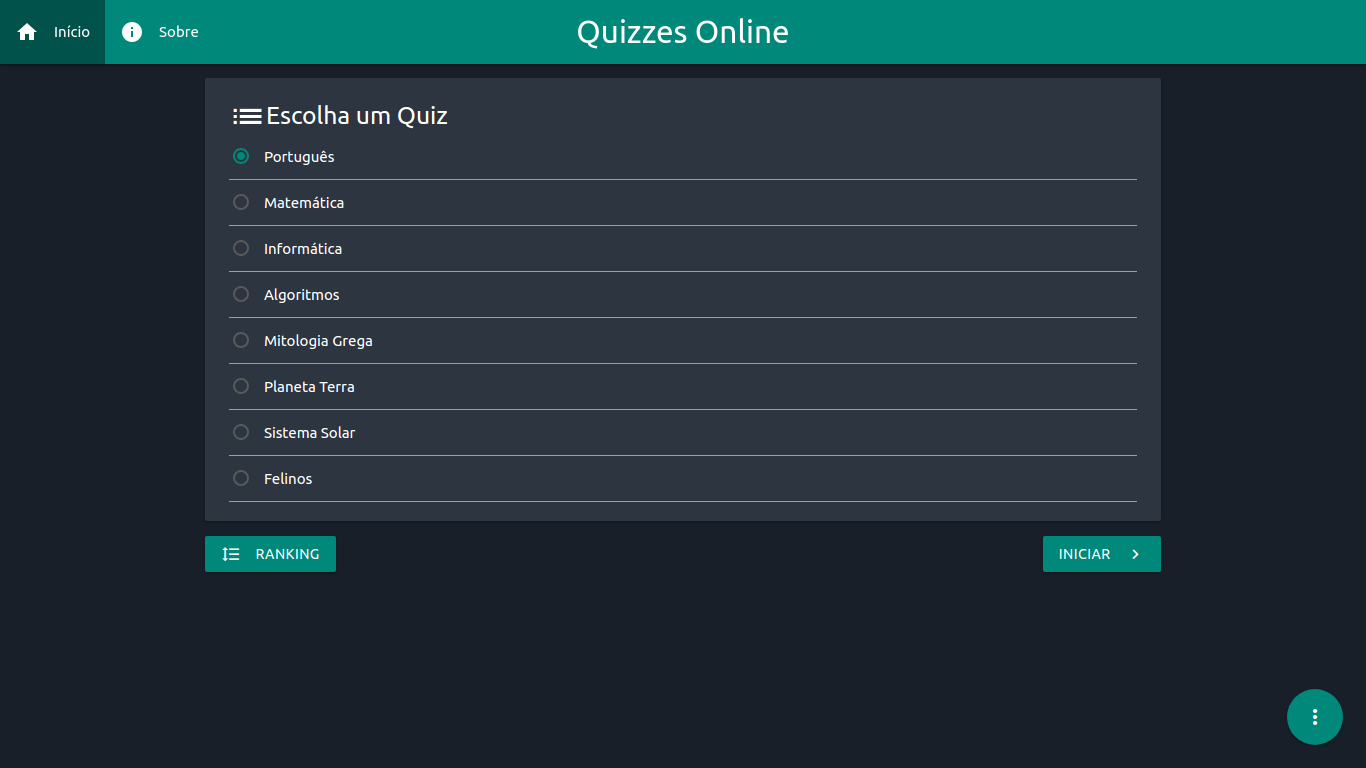
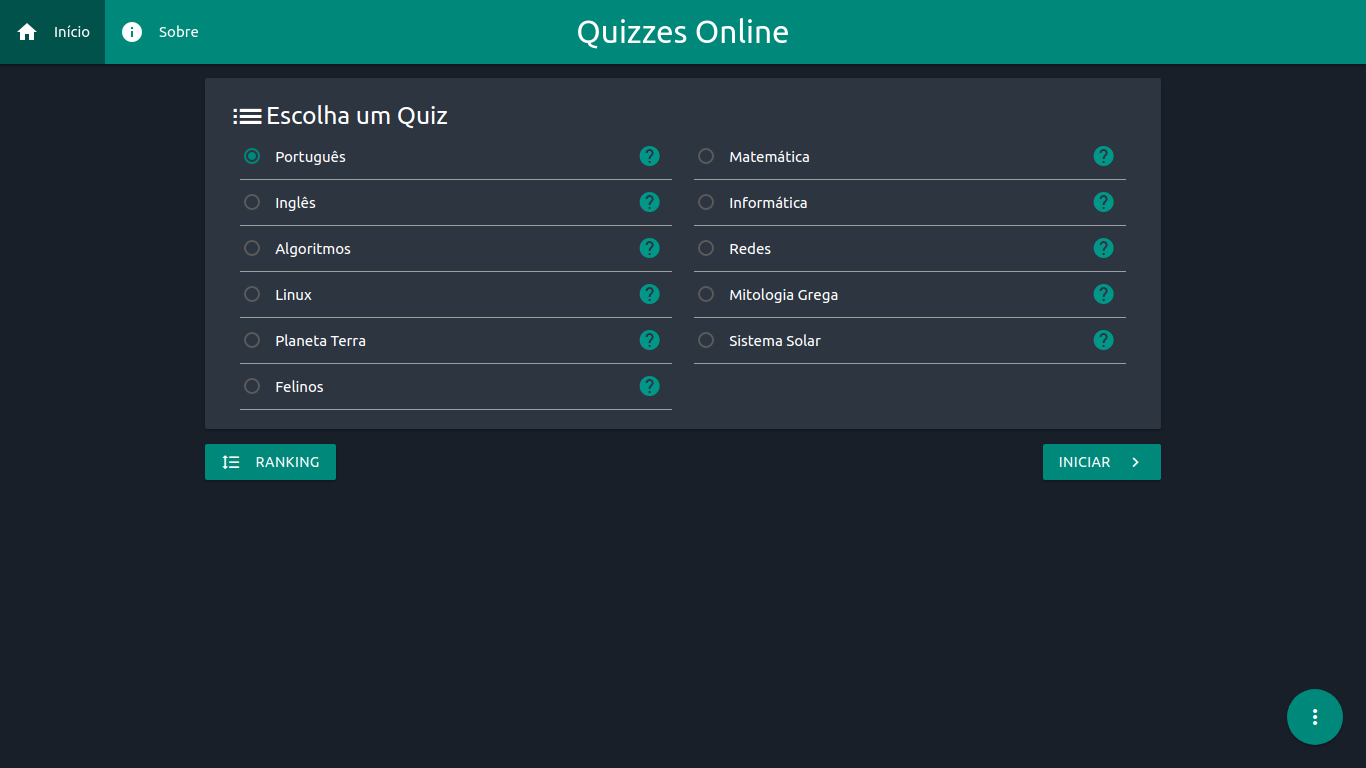
information button added

diff --git a/index.html b/index.html
@@ -1,1 +1,1 @@
-<!DOCTYPE html><html lang="pt-br"><head><meta charset="UTF-8"><meta name="viewport" content="width=device-width, initial-scale=1.0, minimum-scale=1.0, maximum-scale=1.0, user-scalable=no, shrink-to-fit=no"><meta http-equiv="X-UA-Compatible" content="ie=edge"><link rel="stylesheet" href="src/css/materialize.min.css"><link rel="stylesheet" href="src/css/material-icons.css"><link rel="stylesheet" href="src/css/index.css"><link rel="icon" href="images/logo64x64.png"><link rel="manifest" href="manifest.json"><meta name="title" content="Quizzes Online"><meta name="description" content="Quizzes Online com várias modalidades de perguntas. Quantas você consegue acertar?"><meta name="keywords" content="quiz,quizzes,quizes,perguntas,Online,lucas naja,javascript,mundo,quizzes,animais"><meta name="author" content="Lucas Bittencourt"><meta name="mobile-web-app-capable" content="yes"><meta name="apple-mobile-web-app-capable" content="yes"><meta name="application-name" content="Quizzes Online"><meta name="apple-mobile-web-app-title" content="Quizzes Online"><meta name="theme-color" content="#00897b"><meta name="msapplication-navbutton-color" content="#00897b"><meta name="apple-mobile-web-app-status-bar-style" content="black-translucent"><meta name="msapplication-starturl" content="https://quizzesonline.now.sh"><meta property="og:type" content="website"><meta property="og:url" content="https://quizzesonline.now.sh"><meta property="og:title" content="Quizzes Online"><meta property="og:description" content="Quizzes Online com várias modalidades de perguntas. Quantas você consegue acertar?"><meta property="og:image" content="https://quizzesonline.now.sh/images/dark_theme.png"><meta property="og:image:alt" content="Quizzes Online com várias modalidades de perguntas. Quantas você consegue acertar?"><meta name="twitter:card" content="summary_large_image"><meta name="twitter:url" content="https://quizzesonline.now.sh"><meta name="twitter:title" content="Quizzes Online"><meta name="twitter:description" content="Quizzes Online com várias modalidades de perguntas. Quantas você consegue acertar?"><meta name="twitter:image" content="https://quizzesonline.now.sh/images/dark_theme.png"><meta name="twitter:image:alt" content="Quizzes Online com várias modalidades de perguntas. Quantas você consegue acertar?"><meta name="twitter:creator" content="@lucasnaja0"><meta name="twitter:site" content="@lucasnaja0"><meta name="robots" content="index,follow,noodp"><meta name="robots" content="noydir"><meta name="slurp" content="noydir"><title>Quizzes Online - Início</title></head><body data-theme="light"><noscript><link rel="stylesheet" href="src/css/error.css"><p>Ative o JavaScript.</p></noscript><div id="preloader"><div class="preloader-wrapper big active"><div class="spinner-layer"><div class="circle-clipper left"><div class="circle"></div></div><div class="gap-patch"><div class="circle"></div></div><div class="circle-clipper right"><div class="circle"></div></div></div></div></div><div class="navbar-fixed"><nav id="nav" class="hide"><div class="nav-wrapper"><a id="logo" class="brand-logo center hide-on-med-and-down">Quizzes Online</a><a class="brand-logo left hide-on-large-only">Quizzes Online</a><a id="navMenu" data-target="slide-out" class="sidenav-trigger right c-pt"><i class="material-icons">menu</i></a><ul id="nav-mobile" class="hide-on-med-and-down"><li><a title="Início" href="./" class="bgcoloractive">Início<i class="material-icons left">home</i></a></li><li><a title="Sobre" href="sobre/">Sobre<i class="material-icons left">info</i></a></li></ul></div></nav></div><ul id="slide-out" class="sidenav"><li><div class="user-view"><img class="circle" style="border-radius:0" src="images/logo128x128.png"><span class="name">Quizzes Online</span><span class="email">Projeto Etec - Lucas Bittencourt</span></div></li><div class="divider bgcolor"></div><li class="active"><a href="./" class="waves-effect text"><i class="material-icons left teal-text">home</i>Início</a></li><li><a href="sobre/" class="waves-effect text"><i class="material-icons left blue-text">info</i>Sobre</a></li><li><a href="https://github.com/LucasNaja/quizzes-online" target="_target" rel="noopener noreferrer nofollow" class="waves-effect text"><i class="material-icons left text">code</i>Código-Fonte</a></li><div class="divider bgcolor" style="margin-top:0"></div><li><ul class="collapsible"><li><div class="collapsible-header"><i class="material-icons left grey-text">settings</i>Opções<i class="material-icons" style="position:absolute;right: 0">arrow_drop_down</i></div><div class="collapsible-body background-2"><ul><div class="divider bgcolor" style="margin-top:0"></div><li><a class="waves-effect modal-trigger text" data-target="modal7"><i class="material-icons left red-text">clear</i>Limpar Ranking</a></li><li><a class="waves-effect modal-trigger text" data-target="modal8"><i class="material-icons left text">invert_colors</i>Trocar Tema</a></li></ul></div></li></ul></li><div class="divider bgcolor" style="margin-top:0"></div></ul><section id="container" class="container hide" style="margin-bottom:14px"><section id="selectQuiz" class="card-panel" style="margin-top:14px"><h5 style="margin:-15px 0 0 0" class="corTexto"><i class="material-icons" style="top:11px;font-size:37px">list</i>Escolha um Quiz</h5><div id="options" class="row" style="margin-bottom:0"></div></section><section id="quiz" class="card-panel hoverable hide" style="margin-top:14px"></section><button id="rank" title="Ranking Local" class="btn waves-effect modal-trigger waves-light" data-target="modal4"><i class="material-icons left">format_line_spacing</i>Ranking</button><button id="start" title="Iniciar Quiz" class="btn waves-effect waves-light right" onclick="start()">Iniciar<i class="material-icons right">chevron_right</i></button><button id="giveUp" title="Desistir do Quiz" class="btn waves-effect waves-light modal-trigger red hide" data-target="modal1"><i class="material-icons left">sentiment_very_dissatisfied</i>Desistir</button><button id="next" title="Próxima Pergunta" class="btn waves-effect waves-light right hide" onclick="next()">Próximo<i class="material-icons right">chevron_right</i></button><button id="finish" title="Voltar aos Quizzes" class="btn waves-effect waves-light hide" onclick="stop()"><i class="material-icons left">chevron_left</i>Voltar</button><button id="save" title="Salvar Resultado" class="btn waves-effect waves-light modal-trigger green hide" data-target="modal5">Salvar<i class="material-icons left">save</i></button><button id="showAnswers" title="Ver Respostas" class="btn waves-effect waves-light right modal-trigger hide" data-target="modal3">Respostas<i class="material-icons right">question_answer</i></button></section><ul class="pagination center hide" id="pagination"> </ul><section id="actionButton" class="fixed-action-btn"><a id="menu" class="btn-floating btn-large waves-effect waves-light"><i class="material-icons">more_vert</i></a><ul><li><a class="btn-floating modal-trigger waves-effect waves-light red" data-target="modal7"><i class="material-icons">clear</i></a></li><li><a class="btn-floating waves-effect waves-light" href="https://github.com/LucasNaja/quizzes-online" target="_target" rel="noopener noreferrer nofollow"><i class="material-icons">code</i></a></li><li><a class="btn-floating modal-trigger waves-effect waves-light" data-target="modal8"><i class="material-icons">invert_colors</i></a></li></ul></section><section id="modal1" class="modal"><div class="modal-content"><h4><i class="material-icons red-text" style="top:1px">sentiment_very_dissatisfied</i> Desistir</h4><p>Você tem certeza que deseja desistir?</p></div><div class="divider"></div><div class="modal-footer"><button title="Cancelar" class="btn modal-close waves-effect waves-light"><i class="material-icons left">arrow_back</i>Cancelar</button>&nbsp;<button title="Desistir do Quiz" class="btn modal-close waves-effect waves-light red" onclick="stop()">Desistir<i class="material-icons right">sentiment_very_dissatisfied</i></button></div></section><section id="modal2" class="modal"><div class="modal-content"><h4><i class="material-icons" id="star">star</i> Quiz finalizado</h4><p>Você acertou <span id="points"></span></p></div><div class="divider"></div><div class="modal-footer"><button title="Fechar" class="btn modal-close waves-effect waves-light"><i class="material-icons left">close</i>Fechar</button></div></section><section id="modal3" class="modal modal-fixed-footer"><div id="answers" class="modal-content"> </div><div class="divider"></div><div class="modal-footer"><button title="Fechar" class="btn modal-close waves-effect waves-light"><i class="material-icons left">close</i>Fechar</button></div></section><section id="modal4" class="modal modal-fixed-footer"><div class="modal-content"><ul id="tabs" class="tabs z-depth-1"> </ul><div id="tabItems"></div></div><div class="modal-footer"><button title="Fechar" class="modal-close waves-effect waves-light btn"><i class="material-icons left">close</i>Fechar</button></div></section><section id="modal5" class="modal"><div class="modal-content"><h4><i class="material-icons" style="top:1px">save</i> Salvar</h4><p>Quiz: <span id="quizSave"></span></p><p>Acertos: <span id="hitsSave"></span></p><p>Tempo: <span id="timeSave"></span></p><div class="input-field" style="margin:25px 0 0 0"><input placeholder="Nome" id="name" type="text" minlength=3 class="validate"><label for="name">Digite seu nome abaixo</label></div></div><div class="divider"></div><div class="modal-footer"><button title="Cancelar" class="modal-close waves-effect waves-light btn"><i class="material-icons left">arrow_back</i>Cancelar</button>&nbsp;<button id="btnSave" title="Salvar resultado" class="waves-effect waves-light btn green" onclick="save();renderSavedItems()">Salvar<i class="material-icons right">save</i></button></div></section><section id="modal6" class="modal"><div class="modal-content"><h4><i class="material-icons red-text" style="top:1px">sentiment_dissatisfied</i> Você perdeu!</h4><p>Você chegou no limite de tempo, tente novamente!</p></div><div class="divider"></div><div class="modal-footer"><button title="Fechar" class="modal-close waves-effect waves-light btn">Fechar<i class="material-icons left">close</i></button></div></section><section id="modal7" class="modal"><div class="modal-content"><h4><i class="material-icons left red-text" style="top:6px;margin:0 5px 0 0">clear</i>Limpar Ranking</h4><p>Você tem certeza que deseja limpar o Ranking?</p></div><div class="divider"></div><div class="modal-footer"><button title="Cancelar" class="modal-close waves-effect waves-light btn"><i class="material-icons left">arrow_back</i>Cancelar</button>&nbsp;<button title="Limpar Ranking" class="modal-close waves-effect waves-light btn red" onclick="clearSavedItems()">Limpar <i class="material-icons right">clear</i></button></div></section><section id="modal8" class="modal"><div class="modal-content"><h4><i class="material-icons left" style="top:6px;margin:0 5px 0 0">invert_colors</i>Mudar Tema</h4><div class="switch"><label><input id="darktheme" type="checkbox" onchange="if (this.checked) darkTheme(); else lightTheme()"><span class="lever"></span>Tema Dark</label></div></div><div class="divider"></div><div class="modal-footer"><button title="Fechar" class="modal-close waves-effect waves-light btn"><i class="material-icons left">close</i>Fechar</button></div></section><script src="src/js/materialize.min.js"></script><script src="src/js/questions.js"></script><script src="src/js/index.js"></script><script>if ('serviceWorker' in navigator){navigator.serviceWorker.register('/service-worker.js')}</script></body></html>
+<!DOCTYPE html><html lang="pt-br"><head><meta charset="UTF-8"><meta name="viewport" content="width=device-width, initial-scale=1.0, minimum-scale=1.0, maximum-scale=1.0, user-scalable=no, shrink-to-fit=no"><meta http-equiv="X-UA-Compatible" content="ie=edge"><link rel="stylesheet" href="src/css/materialize.min.css"><link rel="stylesheet" href="src/css/material-icons.css"><link rel="stylesheet" href="src/css/index.css"><link rel="icon" href="images/logo64x64.png"><link rel="manifest" href="manifest.json"><meta name="title" content="Quizzes Online"><meta name="description" content="Quizzes Online com várias modalidades de perguntas. Quantas você consegue acertar?"><meta name="keywords" content="quiz,quizzes,quizes,perguntas,Online,lucas naja,javascript,mundo,quizzes,animais"><meta name="author" content="Lucas Bittencourt"><meta name="mobile-web-app-capable" content="yes"><meta name="apple-mobile-web-app-capable" content="yes"><meta name="application-name" content="Quizzes Online"><meta name="apple-mobile-web-app-title" content="Quizzes Online"><meta name="theme-color" content="#00897b"><meta name="msapplication-navbutton-color" content="#00897b"><meta name="apple-mobile-web-app-status-bar-style" content="black-translucent"><meta name="msapplication-starturl" content="https://quizzesonline.now.sh"><meta property="og:type" content="website"><meta property="og:url" content="https://quizzesonline.now.sh"><meta property="og:title" content="Quizzes Online"><meta property="og:description" content="Quizzes Online com várias modalidades de perguntas. Quantas você consegue acertar?"><meta property="og:image" content="https://quizzesonline.now.sh/images/dark_theme.png"><meta property="og:image:alt" content="Quizzes Online com várias modalidades de perguntas. Quantas você consegue acertar?"><meta name="twitter:card" content="summary_large_image"><meta name="twitter:url" content="https://quizzesonline.now.sh"><meta name="twitter:title" content="Quizzes Online"><meta name="twitter:description" content="Quizzes Online com várias modalidades de perguntas. Quantas você consegue acertar?"><meta name="twitter:image" content="https://quizzesonline.now.sh/images/dark_theme.png"><meta name="twitter:image:alt" content="Quizzes Online com várias modalidades de perguntas. Quantas você consegue acertar?"><meta name="twitter:creator" content="@lucasnaja0"><meta name="twitter:site" content="@lucasnaja0"><meta name="robots" content="index,follow,noodp"><meta name="robots" content="noydir"><meta name="slurp" content="noydir"><title>Quizzes Online - Início</title></head><body data-theme="light"><noscript><link rel="stylesheet" href="src/css/error.css"><p>Ative o JavaScript.</p></noscript><div id="preloader"><div class="preloader-wrapper big active"><div class="spinner-layer"><div class="circle-clipper left"><div class="circle"></div></div><div class="gap-patch"><div class="circle"></div></div><div class="circle-clipper right"><div class="circle"></div></div></div></div></div><div class="navbar-fixed"><nav id="nav" class="hide"><div class="nav-wrapper"><a id="logo" class="brand-logo center hide-on-med-and-down">Quizzes Online</a><a class="brand-logo left hide-on-large-only">Quizzes Online</a><a id="navMenu" data-target="slide-out" class="sidenav-trigger right c-pt"><i class="material-icons">menu</i></a><ul id="nav-mobile" class="hide-on-med-and-down"><li><a title="Início" href="./" class="bgcoloractive">Início<i class="material-icons left">home</i></a></li><li><a title="Sobre" href="sobre/">Sobre<i class="material-icons left">info</i></a></li></ul></div></nav></div><ul id="slide-out" class="sidenav"><li><div class="user-view"><img class="circle" style="border-radius:0" src="images/logo128x128.png"><span class="name">Quizzes Online</span><span class="email">Projeto Etec - Lucas Bittencourt</span></div></li><div class="divider bgcolor"></div><li class="active"><a href="./" class="waves-effect text"><i class="material-icons left teal-text">home</i>Início</a></li><li><a href="sobre/" class="waves-effect text"><i class="material-icons left blue-text">info</i>Sobre</a></li><li><a href="https://github.com/LucasNaja/quizzes-online" target="_target" rel="noopener noreferrer nofollow" class="waves-effect text"><i class="material-icons left text">code</i>Código-Fonte</a></li><div class="divider bgcolor" style="margin-top:0"></div><li><ul class="collapsible"><li><div class="collapsible-header"><i class="material-icons left grey-text">settings</i>Opções<i class="material-icons" style="position:absolute;right: 0">arrow_drop_down</i></div><div class="collapsible-body background-2"><ul><div class="divider bgcolor" style="margin-top:0"></div><li><a class="waves-effect modal-trigger text" data-target="modal7"><i class="material-icons left red-text">clear</i>Limpar Ranking</a></li><li><a class="waves-effect modal-trigger text" data-target="modal8"><i class="material-icons left text">invert_colors</i>Trocar Tema</a></li></ul></div></li></ul></li><div class="divider bgcolor" style="margin-top:0"></div></ul><section id="container" class="container hide" style="margin-bottom:14px"><section id="selectQuiz" class="card-panel" style="margin-top:14px"><h5 style="margin:-15px 0 0 0" class="corTexto"><i class="material-icons" style="top:11px;font-size:37px">list</i>Escolha um Quiz</h5><div id="options" class="row" style="margin-bottom:0"></div></section><section id="quiz" class="card-panel hoverable hide" style="margin-top:14px"></section><button id="rank" title="Ranking Local" class="btn waves-effect modal-trigger waves-light" data-target="modal4"><i class="material-icons left">format_line_spacing</i>Ranking</button><button id="start" title="Iniciar Quiz" class="btn waves-effect waves-light right" onclick="start()">Iniciar<i class="material-icons right">chevron_right</i></button><button id="giveUp" title="Desistir do Quiz" class="btn waves-effect waves-light modal-trigger red hide" data-target="modal1"><i class="material-icons left">sentiment_very_dissatisfied</i>Desistir</button><button id="next" title="Próxima Pergunta" class="btn waves-effect waves-light right hide" onclick="next()">Próximo<i class="material-icons right">chevron_right</i></button><button id="finish" title="Voltar aos Quizzes" class="btn waves-effect waves-light hide" onclick="stop()"><i class="material-icons left">chevron_left</i>Voltar</button><button id="save" title="Salvar Resultado" class="btn waves-effect waves-light modal-trigger green hide" data-target="modal5">Salvar<i class="material-icons left">save</i></button><button id="showAnswers" title="Ver Respostas" class="btn waves-effect waves-light right modal-trigger hide" data-target="modal3">Respostas<i class="material-icons right">question_answer</i></button></section><ul class="pagination center hide" id="pagination"> </ul><section id="actionButton" class="fixed-action-btn"><a id="menu" class="btn-floating btn-large waves-effect waves-light"><i class="material-icons">more_vert</i></a><ul><li><a class="btn-floating modal-trigger waves-effect waves-light red" data-target="modal7"><i class="material-icons">clear</i></a></li><li><a class="btn-floating waves-effect waves-light" href="https://github.com/LucasNaja/quizzes-online" target="_target" rel="noopener noreferrer nofollow"><i class="material-icons">code</i></a></li><li><a class="btn-floating modal-trigger waves-effect waves-light" data-target="modal8"><i class="material-icons">invert_colors</i></a></li></ul></section><section id="modal1" class="modal"><div class="modal-content"><h4><i class="material-icons red-text" style="top:1px">sentiment_very_dissatisfied</i> Desistir</h4><p style="font-size:16px;margin:0">Você tem certeza que deseja desistir?</p></div><div class="divider"></div><div class="modal-footer"><button title="Cancelar" class="btn modal-close waves-effect waves-light"><i class="material-icons left">arrow_back</i>Cancelar</button>&nbsp;<button title="Desistir do Quiz" class="btn modal-close waves-effect waves-light red" onclick="stop()">Desistir<i class="material-icons right">sentiment_very_dissatisfied</i></button></div></section><section id="modal2" class="modal"><div class="modal-content"><h4><i class="material-icons" id="star">star</i> Quiz finalizado</h4><p style="font-size:16px;margin:0">Você acertou <span id="points"></span></p></div><div class="divider"></div><div class="modal-footer"><button title="Fechar" class="btn modal-close waves-effect waves-light"><i class="material-icons left">close</i>Fechar</button></div></section><section id="modal3" class="modal modal-fixed-footer"><div id="answers" class="modal-content"> </div><div class="divider"></div><div class="modal-footer"><button title="Fechar" class="btn modal-close waves-effect waves-light"><i class="material-icons left">close</i>Fechar</button></div></section><section id="modal4" class="modal modal-fixed-footer"><div class="modal-content"><ul id="tabs" class="tabs z-depth-1"> </ul><div id="tabItems"></div></div><div class="modal-footer"><button title="Fechar" class="modal-close waves-effect waves-light btn"><i class="material-icons left">close</i>Fechar</button></div></section><section id="modal5" class="modal"><div class="modal-content"><h4><i class="material-icons" style="top:1px">save</i> Salvar</h4><p>Quiz: <span id="quizSave"></span></p><p>Acertos: <span id="hitsSave"></span></p><p>Tempo: <span id="timeSave"></span></p><div class="input-field" style="margin:25px 0 0 0"><input placeholder="Nome" id="name" type="text" minlength=3 class="validate"><label for="name">Digite seu nome abaixo</label></div></div><div class="divider"></div><div class="modal-footer"><button title="Cancelar" class="modal-close waves-effect waves-light btn"><i class="material-icons left">arrow_back</i>Cancelar</button>&nbsp;<button id="btnSave" title="Salvar resultado" class="waves-effect waves-light btn green" onclick="save();renderSavedItems()">Salvar<i class="material-icons right">save</i></button></div></section><section id="modal6" class="modal"><div class="modal-content"><h4><i class="material-icons red-text" style="top:1px">sentiment_dissatisfied</i> Você perdeu!</h4><p style="font-size:16px;margin:0">Você chegou no limite de tempo, tente novamente!</p></div><div class="divider"></div><div class="modal-footer"><button title="Fechar" class="modal-close waves-effect waves-light btn">Fechar<i class="material-icons left">close</i></button></div></section><section id="modal7" class="modal"><div class="modal-content"><h4><i class="material-icons left red-text" style="top:6px;margin:0 5px 0 0">clear</i>Limpar Ranking</h4><p style="font-size:16px;margin:0">Você tem certeza que deseja limpar o Ranking?</p></div><div class="divider"></div><div class="modal-footer"><button title="Cancelar" class="modal-close waves-effect waves-light btn"><i class="material-icons left">arrow_back</i>Cancelar</button>&nbsp;<button title="Limpar Ranking" class="modal-close waves-effect waves-light btn red" onclick="clearSavedItems()">Limpar <i class="material-icons right">clear</i></button></div></section><section id="modal8" class="modal"><div class="modal-content"><h4><i class="material-icons left" style="top:6px;margin:0 5px 0 0">invert_colors</i>Mudar Tema</h4><div class="switch"><label><input id="darktheme" type="checkbox" onchange="if (this.checked) darkTheme(); else lightTheme()"><span class="lever"></span><span class="text">Tema Dark</span></label></div></div><div class="divider"></div><div class="modal-footer"><button title="Fechar" class="modal-close waves-effect waves-light btn"><i class="material-icons left">close</i>Fechar</button></div></section><section id="modal9" class="modal"><div class="modal-content"><h4><i class="material-icons left teal-text" style="top:7px;margin:0 5px 0 0">help</i><span id="quizName"></span></h4><p id="quizInformation" style="font-size:16px;margin:0"></p></div><div class="divider"></div><div class="modal-footer"><button title="Fechar" class="modal-close waves-effect waves-light btn"><i class="material-icons left">close</i>Fechar</button></div></section><script src="src/js/materialize.min.js"></script><script src="src/js/questions.js"></script><script src="src/js/index.js"></script><script>if ('serviceWorker' in navigator){navigator.serviceWorker.register('/service-worker.js')}</script></body></html>

diff --git a/src/js/index.js b/src/js/index.js
@@ -1,5 +1,6 @@
-"use strict";const btnNext=document.querySelector("#next"),btnStart=document.querySelector("#start"),btnRank=document.querySelector("#rank"),btnGiveUp=document.querySelector("#giveUp"),btnShowAnswers=document.querySelector("#showAnswers"),btnFinish=document.querySelector("#finish"),btnSave=document.querySelector("#save"),selectQuiz=document.querySelector("#selectQuiz"),quiz=document.querySelector("#quiz"),pagination=document.querySelector("#pagination"),winPoints=document.querySelector("#points"),star=document.querySelector("#star"),showAnswers=document.querySelector("#answers"),quisSave=document.querySelector("#quizSave"),hitsSave=document.querySelector("#hitsSave"),timeSave=document.querySelector("#timeSave"),textName=document.querySelector("#name"),logo=document.querySelector("#logo"),modal5=document.querySelector("#modal5"),switcherTheme=document.querySelector("#darktheme"),quizTitle=document.querySelector("#quizTitle"),options=document.querySelector("#options"),tabs=document.querySelector("#tabs"),allTabs=document.querySelector(".tabs"),tabItems=document.querySelector("#tabItems"),actionButtons=document.querySelectorAll(".fixed-action-btn"),actionButton=document.querySelector("#actionButton"),navButtons=document.querySelector("#nav-mobile"),navMenu=document.querySelector("#navMenu");let timeInterval,types,points=0,currentQuestion=0,matches=[],selectedType=-1,time=0,radioButtons="";for(let a=0;a<names.length;a++)radioButtons+=`<div class="col s12 m6">
-			<p>
+"use strict";const btnNext=document.querySelector("#next"),btnStart=document.querySelector("#start"),btnRank=document.querySelector("#rank"),btnGiveUp=document.querySelector("#giveUp"),btnShowAnswers=document.querySelector("#showAnswers"),btnFinish=document.querySelector("#finish"),btnSave=document.querySelector("#save"),selectQuiz=document.querySelector("#selectQuiz"),quiz=document.querySelector("#quiz"),pagination=document.querySelector("#pagination"),winPoints=document.querySelector("#points"),star=document.querySelector("#star"),showAnswers=document.querySelector("#answers"),quisSave=document.querySelector("#quizSave"),hitsSave=document.querySelector("#hitsSave"),timeSave=document.querySelector("#timeSave"),textName=document.querySelector("#name"),logo=document.querySelector("#logo"),modal5=document.querySelector("#modal5"),switcherTheme=document.querySelector("#darktheme"),quizTitle=document.querySelector("#quizTitle"),options=document.querySelector("#options"),tabs=document.querySelector("#tabs"),allTabs=document.querySelector(".tabs"),tabItems=document.querySelector("#tabItems"),actionButtons=document.querySelectorAll(".fixed-action-btn"),actionButton=document.querySelector("#actionButton"),navButtons=document.querySelector("#nav-mobile"),navMenu=document.querySelector("#navMenu"),quizName=document.querySelector("#quizName"),quizInformation=document.querySelector("#quizInformation");let timeInterval,types,points=0,currentQuestion=0,matches=[],selectedType=-1,time=0,radioButtons="";for(let a=0;a<names.length;a++)radioButtons+=`<div class="col s12 m6">
+			<p style="position:relative">
+				<i title="Informações" class="material-icons modal-trigger teal-text" data-target="modal9" style="position:absolute;right:10px;cursor:pointer" onclick="changeInformation(${a})">help</i>
 				<label>
 					<input class="with-gap" name="selectQuiz" type="radio" data-num="${a}" ${0==a?"checked":""} />
 					<span>${names[a]}</span>
@@ -19,4 +20,4 @@
 							<td class="center-align">${d[a][2]}/${d[a][3]}</td>
 							<td class="center-align">${d[a][4]}</td>
 							<td class="center-align"><i class="material-icons red-text" style="cursor:pointer" onclick="deleteItem(${b}, ${parseInt(types[h].getAttribute("data-num"),10)})">close</i></td>
-						</tr>`,d.splice(a,1),e+=1,a-=1,g=!0);g&&(e+=`<li class="tab tabs-fixed-width tab-demo"><a data-num="${types[h].getAttribute("data-num")}" class="${a==h?"active":""}" href="#quiz${h}">${names[h]}</a></li>`,c+="</tbody></table>",f+=`<div id="quiz${h}">${c}</div>`,g=!1,c="<table class=\"responsive-table\"><thead><tr><th>Posi\xE7\xE3o</th><th class=\"center-align\">Nome</th><th class=\"center-align\">Acertos</th><th class=\"center-align\">Tempo</th><th class=\"center-align\">Remover</th></tr></thead><tbody>")}tabs.innerHTML=e,tabItems.innerHTML=f,M.Tabs.init(allTabs)}else tabs.innerHTML=e,tabItems.innerHTML=f},deleteItem=(a,b)=>{const c=JSON.parse(localStorage.getItem("registeredItems"));c.splice(a,1),c.length?localStorage.setItem("registeredItems",`${JSON.stringify(c)}`):localStorage.removeItem("registeredItems"),renderSavedItems(b)},clearSavedItems=()=>{localStorage.removeItem("registeredItems"),renderSavedItems()},tabletMedia=a=>{const b=M.FloatingActionButton.getInstance(actionButton);a.matches?M.FloatingActionButton.init(actionButtons):b&&b.destroy()},x=window.matchMedia("(min-width: 1024px)");tabletMedia(x),x.addListener(tabletMedia),window.addEventListener("DOMContentLoaded",()=>{M.Sidenav.init(document.querySelectorAll(".sidenav")),M.Modal.init(document.querySelectorAll(".modal")),M.Collapsible.init(document.querySelectorAll(".collapsible")),renderSavedItems()}),btnRank.onclick=()=>{const a=M.Tabs.getInstance(tabs);if(a)for(let b=0;b<a.$tabLinks.length;b++){const c=a.$tabLinks[b].getAttribute("data-num");if(types[c].checked){a.$tabLinks[b].click(),setTimeout(()=>{a.updateTabIndicator(),tabs.scrollLeft=a.$tabLinks[b].offsetLeft},300);break}else b==a.$tabLinks.length-1&&(a.$tabLinks[0].click(),setTimeout(()=>{a.updateTabIndicator(),tabs.scrollLeft=a.$tabLinks[b].offsetLeft},300))}},btnSave.onclick=()=>{setTimeout(()=>{textName.select()},50)},modal5.onkeydown=a=>{13===a.which&&(save(),renderSavedItems())},window.onload=()=>{const a=document.querySelector("#preloader");if(location.search.includes("?quiz=")){const a=decodeURIComponent(location.search.split("=")[1]);for(let b=0;b<names.length;b++)if(names[b]===a){types[b].checked=!0,start();break}}document.querySelector("#nav").classList.remove("hide"),document.querySelector("#container").classList.remove("hide"),a.classList.add("hide"),a.remove()};
+						</tr>`,d.splice(a,1),e+=1,a-=1,g=!0);g&&(e+=`<li class="tab tabs-fixed-width tab-demo"><a data-num="${types[h].getAttribute("data-num")}" class="${a==h?"active":""}" href="#quiz${h}">${names[h]}</a></li>`,c+="</tbody></table>",f+=`<div id="quiz${h}">${c}</div>`,g=!1,c="<table class=\"responsive-table\"><thead><tr><th>Posi\xE7\xE3o</th><th class=\"center-align\">Nome</th><th class=\"center-align\">Acertos</th><th class=\"center-align\">Tempo</th><th class=\"center-align\">Remover</th></tr></thead><tbody>")}tabs.innerHTML=e,tabItems.innerHTML=f,M.Tabs.init(allTabs)}else tabs.innerHTML=e,tabItems.innerHTML=f},deleteItem=(a,b)=>{const c=JSON.parse(localStorage.getItem("registeredItems"));c.splice(a,1),c.length?localStorage.setItem("registeredItems",`${JSON.stringify(c)}`):localStorage.removeItem("registeredItems"),renderSavedItems(b)},clearSavedItems=()=>{localStorage.removeItem("registeredItems"),renderSavedItems()},changeInformation=a=>{quizName.innerHTML=names[a],quizInformation.innerHTML=`Quantidade de perguntas: ${questions[a].length}`},tabletMedia=a=>{const b=M.FloatingActionButton.getInstance(actionButton);a.matches?M.FloatingActionButton.init(actionButtons):b&&b.destroy()},x=window.matchMedia("(min-width: 1024px)");tabletMedia(x),x.addListener(tabletMedia),window.addEventListener("DOMContentLoaded",()=>{M.Sidenav.init(document.querySelectorAll(".sidenav")),M.Modal.init(document.querySelectorAll(".modal")),M.Collapsible.init(document.querySelectorAll(".collapsible")),renderSavedItems()}),btnRank.onclick=()=>{const a=M.Tabs.getInstance(tabs);if(a)for(let b=0;b<a.$tabLinks.length;b++){const c=a.$tabLinks[b].getAttribute("data-num");if(types[c].checked){a.$tabLinks[b].click(),setTimeout(()=>{a.updateTabIndicator(),tabs.scrollLeft=a.$tabLinks[b].offsetLeft},300);break}else b==a.$tabLinks.length-1&&(a.$tabLinks[0].click(),setTimeout(()=>{a.updateTabIndicator(),tabs.scrollLeft=a.$tabLinks[b].offsetLeft},300))}},btnSave.onclick=()=>{setTimeout(()=>{textName.select()},50)},modal5.onkeydown=a=>{13===a.which&&(save(),renderSavedItems())},window.onload=()=>{const a=document.querySelector("#preloader");if(location.search.includes("?quiz=")){const a=decodeURIComponent(location.search.split("=")[1]);for(let b=0;b<names.length;b++)if(names[b]===a){types[b].checked=!0,start();break}}document.querySelector("#nav").classList.remove("hide"),document.querySelector("#container").classList.remove("hide"),a.classList.add("hide"),a.remove()}
